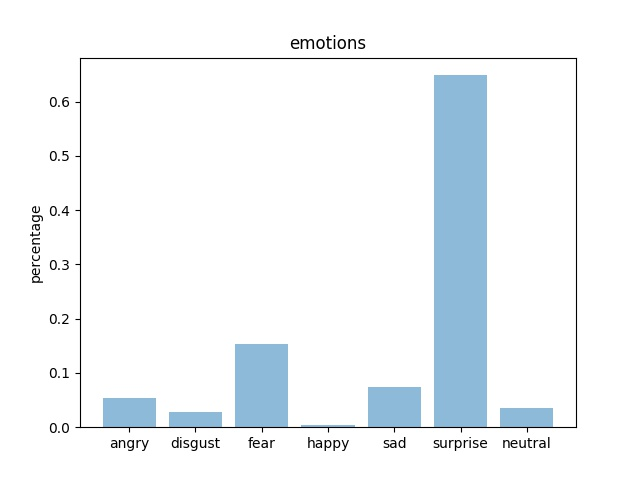
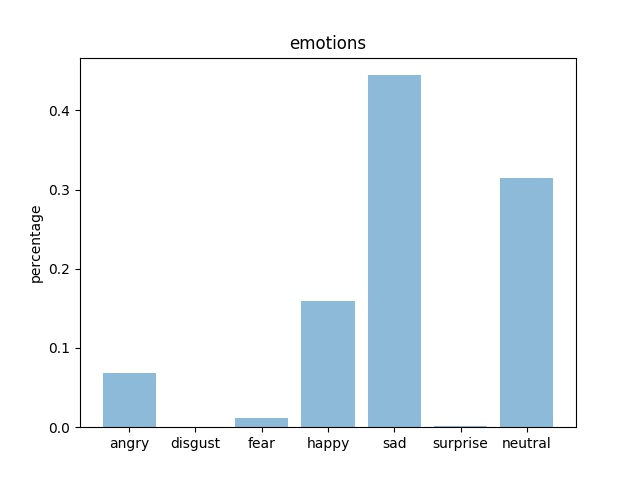
4/15 13:32
实时绘图

diff --git a/app/static/scripts/js/index.js b/app/static/scripts/js/index.js
@@ -1,6 +1,7 @@
 /**
  * Created by chenzejun on 2019/4/11.
  */
+
 var chart1 = echarts.init(document.getElementById('bar'));
 var option1 = {
     title : {
@@ -50,6 +51,12 @@ var option2 = {
     legend : {
         data : ['angry', 'disgust', 'fear', 'happy', 'sad', 'surprise', 'neutral']
     },
+    grid : {
+        left: '3%',
+        right: '4%',
+        bottom: '3%',
+        containLabel: true
+    },
     xAxis : {
         type : 'category',
         boundaryGap : 'false',
@@ -96,6 +103,8 @@ var option2 = {
         }
     ]
 };
+chart1.setOption(option1);
+chart2.setOption(option2);
 
 
 function getBarData() {
@@ -105,9 +114,10 @@ function getBarData() {
         dataType: 'json',
         success: function (data) {
             if (data != null) {
-                option1.series[0].data = data;
-                chart1.setOption(option1);
-                alert('柱状图获取成功');
+
+                option1.series[0].data = data['data'];
+                window.setTimeout(chart1.setOption(option1), 500);
+
             } else {
                 alert('信息获取失败');
             }
@@ -129,9 +139,9 @@ function getLineData(){
             if(data != null){
                 alert(data['data'][0]);
                 for(var i=0;i<7;i++){
-                    option2.series[i].data = data[i];
+                    option2.series[i].data = data['data'][i];
                 }
-                chart2.setOption(option2);
+                window.setTimeout(chart2.setOption(option2), 500);
             }else{
                 alert('信息获取失败')
             }

diff --git a/app/templates/index.html b/app/templates/index.html
@@ -2,9 +2,10 @@
     <head>
         <meta charset="utf-8">
         <title>摄像头</title>
-        <script src="../static/scripts/js/echarts.js"></script>
+        <script src="../static/scripts/js/echarts.js" type="text/javascript"></script>
         <script src="../static/scripts/jquery-1.9.1.min.js" type="text/javascript"></script>
-        <script src="../static/scripts/js/index.js" type="text/javascript"></script>
+
+
     </head>
     <body>
         <div>
@@ -14,7 +15,7 @@
         </div>
         <hr />
         <img src="{{ url_for('video_feed') }}" width="60%" height="40%" alt="请开启摄像头">
-        <div id="bar"></div>
+        <div id="bar" style="width: 600px;height: 400px"></div>
         {% if is_closed %}
         <button><a href="{{ url_for('open_video') }}">开启摄像头</a></button>
         {% else %}
@@ -40,11 +41,9 @@
         {% endfor %}
         {% endif %}
         {% endif %}
-        <div id="line"></div>
+        <div id="line" style="width: 600px;height: 400px"></div>
 
 
-
+        <script src="../static/scripts/js/index.js" type="text/javascript"></script>
     </body>
-
-
 </html>
